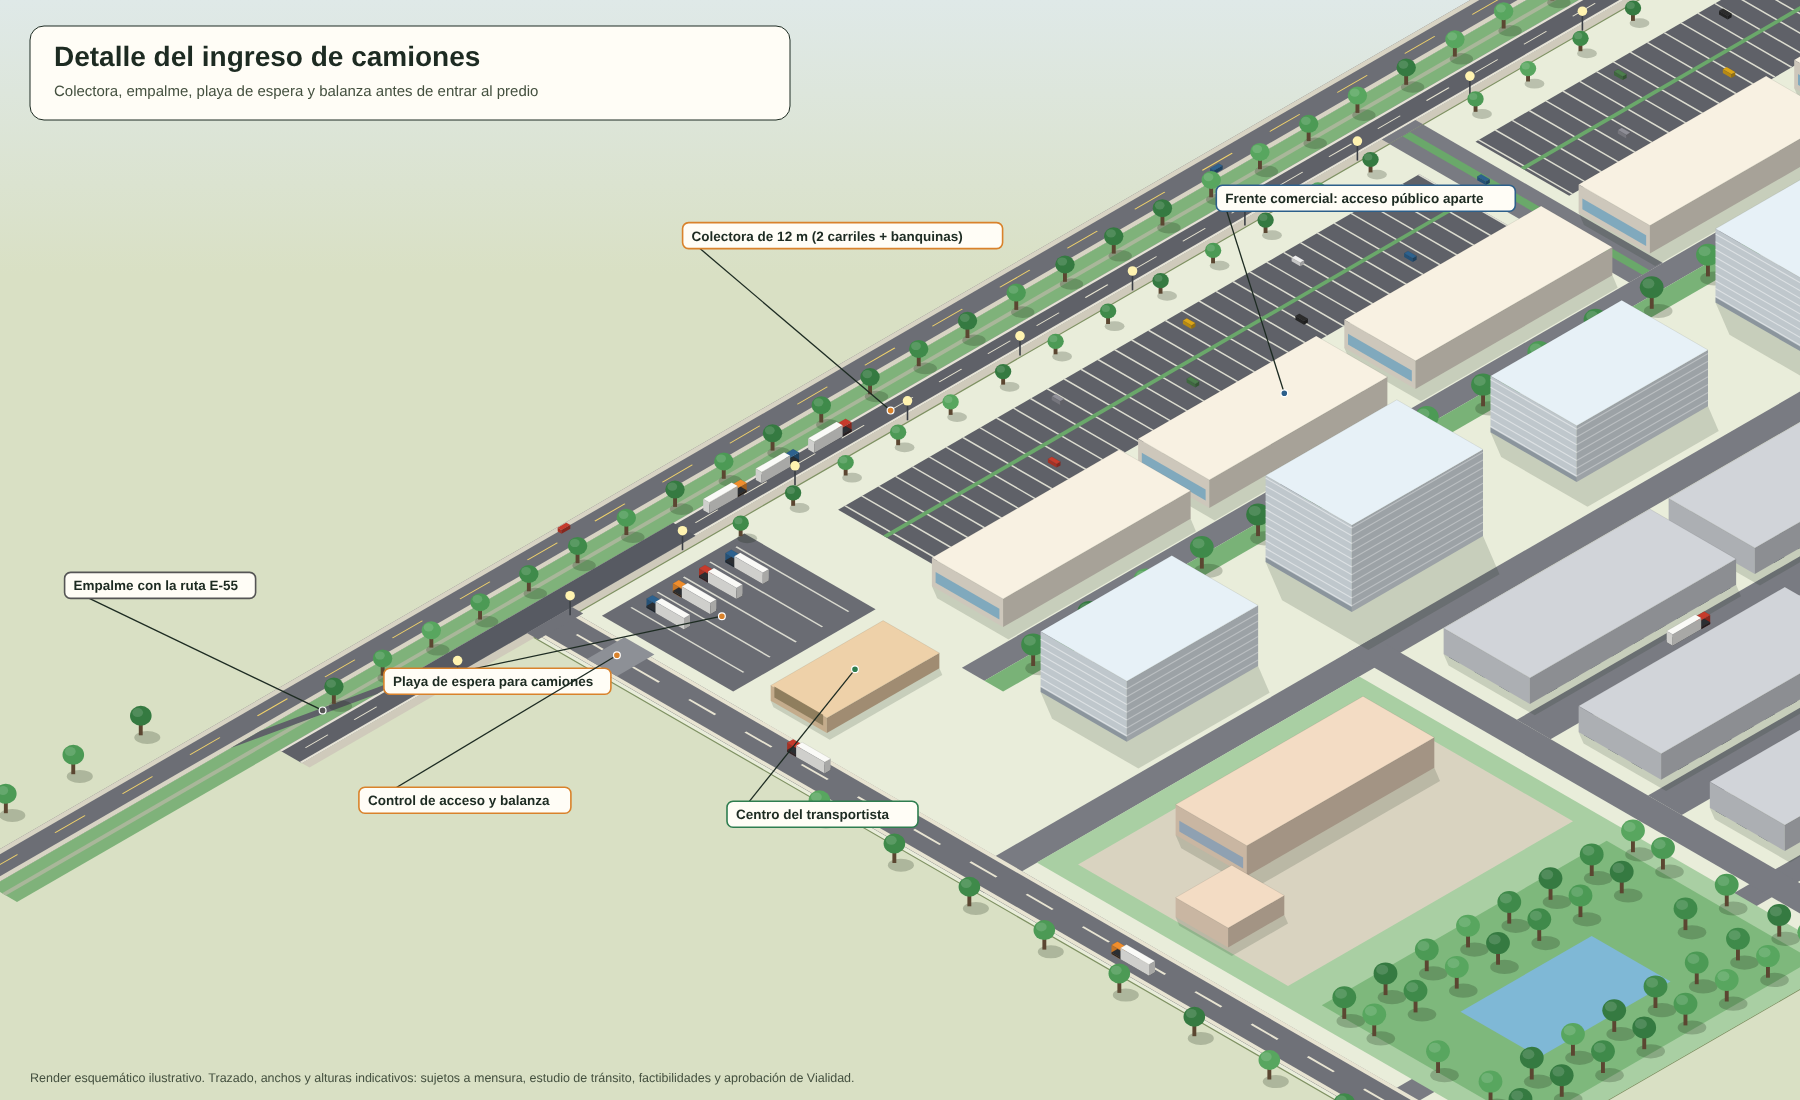
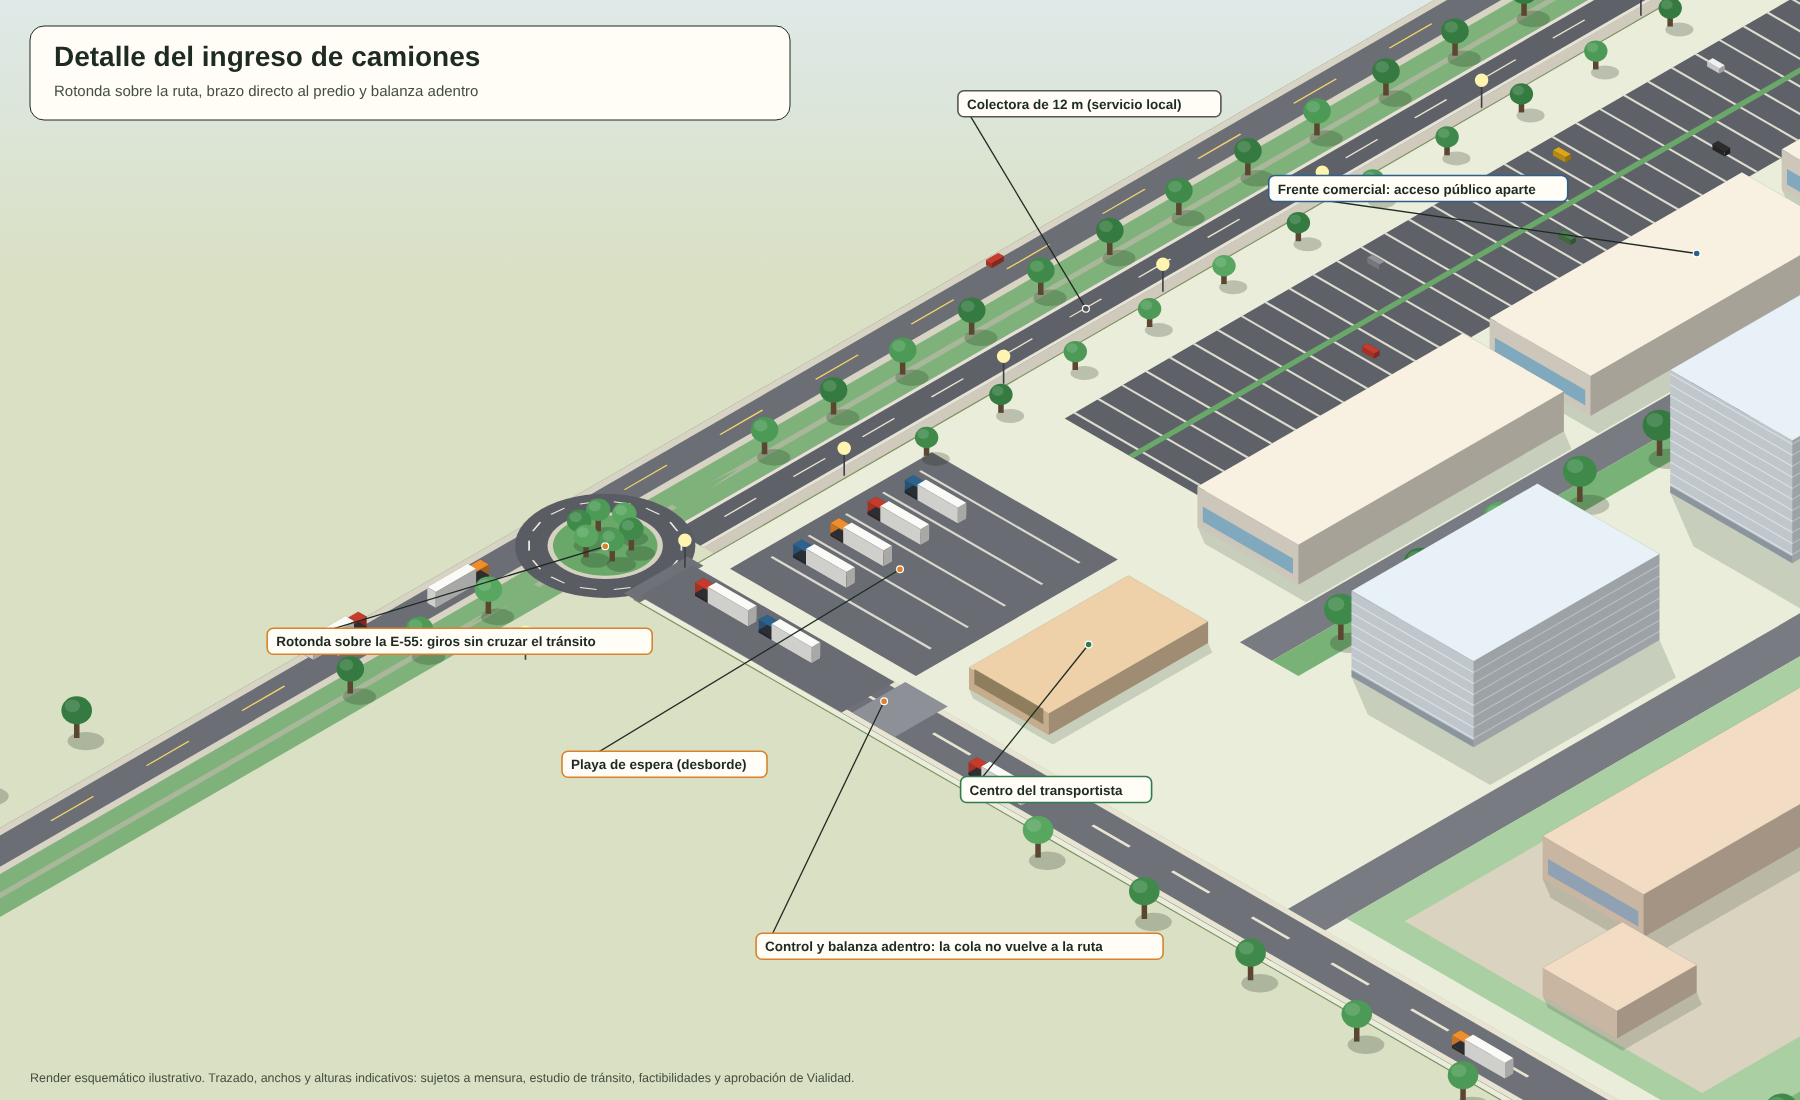
Accesos por rotondas sobre la E-55 en los renders del polo
Claude-Session: https://claude.ai/code/session_01YQEUyieFzvc6eZxAEjGn6A

diff --git a/parque-35ha.html b/parque-35ha.html
@@ -180,7 +180,7 @@ h3{font-family:'Syne',sans-serif;font-size:1rem;font-weight:700;color:#fff;margi
     <div class="section-tag aos">Condiciones</div>
     <h2 class="aos">Lo que hay que resolver antes de vender una sola hectárea.</h2>
     <p class="section-intro aos">Cada una de estas condiciones puede cambiar el proyecto. Son el primer punto de la agenda si la gestión llega a cargo del municipio.</p>
-    <div class="sm-features"><div class="sm-feat aos"><div class="sm-feat-title">💧 Agua</div><div class="sm-feat-desc">La Calera tiene un problema de abastecimiento. El polo solo admite industria seca y logística, con evaluación ambiental obligatoria y reuso donde se pueda. Sin factibilidad de agua firmada no se habilita ningún lote.</div></div><div class="sm-feat aos"><div class="sm-feat-title">⚡ Energía y gas</div><div class="sm-feat-desc">Se necesita factibilidad de EPEC para potencia trifásica y de la distribuidora de gas. Pedirla temprano evita costos ocultos.</div></div><div class="sm-feat aos"><div class="sm-feat-title">🏨 Vecino Mimus</div><div class="sm-feat-desc">El frente comercial medio-alto convive con un alojamiento transitorio al lado. Conviene una cortina verde y un diseño de acceso que separe imagen y tránsito.</div></div><div class="sm-feat aos"><div class="sm-feat-title">📜 Suelo y zonificación</div><div class="sm-feat-desc">Hay que verificar quién es el titular del suelo, el uso actual y la cota de inundación. Si es privado, la herramienta es un convenio urbanístico con contrapartidas; si es público, un banco de tierras con concesión o venta por etapas.</div></div><div class="sm-feat aos"><div class="sm-feat-title">🏭 Ley 7.255</div><div class="sm-feat-desc">Para que las radicaciones industriales accedan a beneficios provinciales conviene tramitar la aprobación como parque. Hay que confirmar las exenciones vigentes con el Ministerio de Industria.</div></div></div>
+    <div class="sm-features"><div class="sm-feat aos"><div class="sm-feat-title">💧 Agua</div><div class="sm-feat-desc">La Calera tiene un problema de abastecimiento. El polo solo admite industria seca y logística, con evaluación ambiental obligatoria y reuso donde se pueda. Sin factibilidad de agua firmada no se habilita ningún lote.</div></div><div class="sm-feat aos"><div class="sm-feat-title">⚡ Energía y gas</div><div class="sm-feat-desc">Se necesita factibilidad de EPEC para potencia trifásica y de la distribuidora de gas. Pedirla temprano evita costos ocultos.</div></div><div class="sm-feat aos"><div class="sm-feat-title">🏨 Vecino Mimus</div><div class="sm-feat-desc">El frente comercial medio-alto convive con un alojamiento transitorio al lado. Conviene una cortina verde y un diseño de acceso que separe imagen y tránsito.</div></div><div class="sm-feat aos"><div class="sm-feat-title">📜 Suelo y zonificación</div><div class="sm-feat-desc">Hay que verificar quién es el titular del suelo, el uso actual y la cota de inundación. Si es privado, la herramienta es un convenio urbanístico con contrapartidas; si es público, un banco de tierras con concesión o venta por etapas.</div></div><div class="sm-feat aos"><div class="sm-feat-title">🔄 Accesos sin giros en T</div><div class="sm-feat-desc">Un empalme en T sobre una ruta con mucho tránsito genera frenadas y cruces peligrosos. Se proponen dos rotondas sobre la E-55, una para el público y otra para camiones, con brazo directo al predio y balanza adentro para que la cola no vuelva a la ruta. Hay que validarlo con un estudio de tránsito y con Vialidad provincial.</div></div><div class="sm-feat aos"><div class="sm-feat-title">🏭 Ley 7.255</div><div class="sm-feat-desc">Para que las radicaciones industriales accedan a beneficios provinciales conviene tramitar la aprobación como parque. Hay que confirmar las exenciones vigentes con el Ministerio de Industria.</div></div></div>
   </div>
 </div>
 <div class="alt-bg">
@@ -195,7 +195,7 @@ h3{font-family:'Syne',sans-serif;font-size:1rem;font-weight:700;color:#fff;margi
   <div class="section">
     <div class="section-tag aos">Renders</div>
     <h2 class="aos">Cómo se vería el polo.</h2>
-    <p class="section-intro aos">Imágenes esquemáticas e ilustrativas, no son un proyecto. Muestran la colectora ancha de 12 m y el ingreso de camiones separado del público.</p>
+    <p class="section-intro aos">Imágenes esquemáticas e ilustrativas, no son un proyecto. Muestran dos rotondas sobre la E-55 (una para el público y otra para camiones), una colectora de 12 m de servicio local y el ingreso de camiones separado del público.</p>
     <div style="display:grid;gap:1.5rem;">
       <img class="aos" src="img/polo-vista-general.png" alt="Vista general del polo desde la ruta E-55" style="width:100%;border-radius:12px;border:1px solid var(--border);" loading="lazy">
       <img class="aos" src="img/polo-ingreso-camiones.png" alt="Detalle del ingreso de camiones" style="width:100%;border-radius:12px;border:1px solid var(--border);" loading="lazy">
